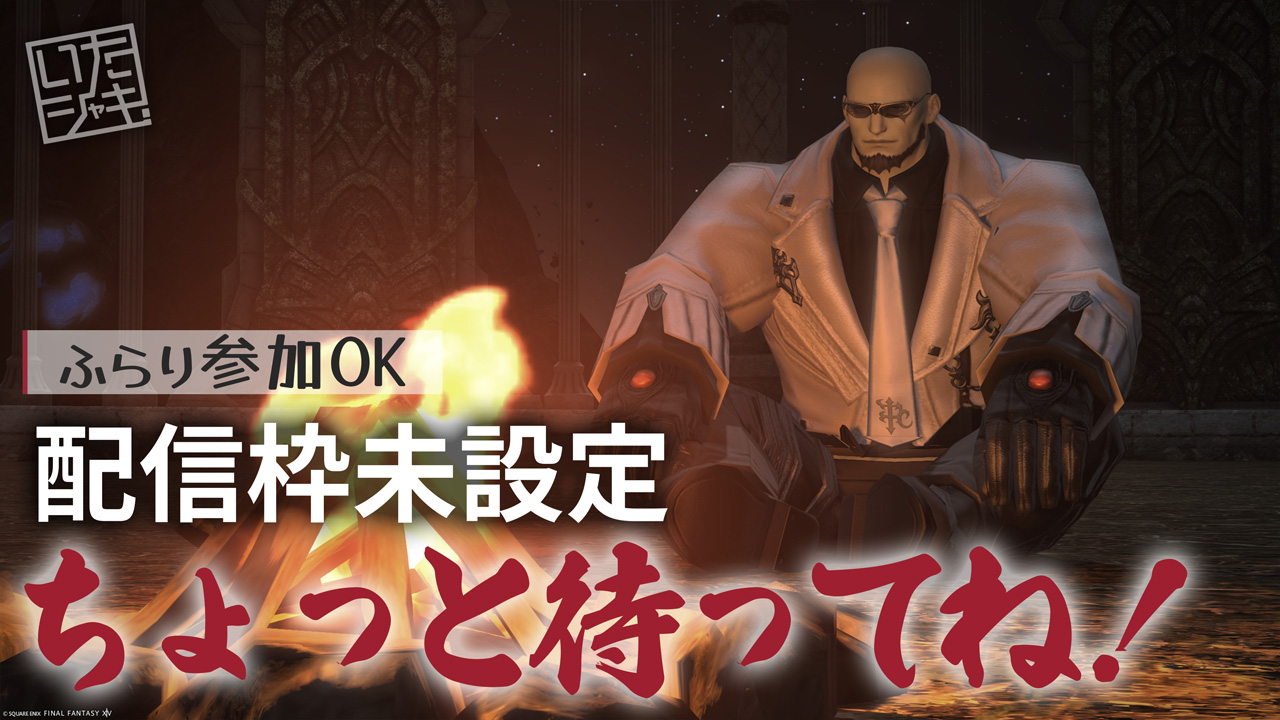
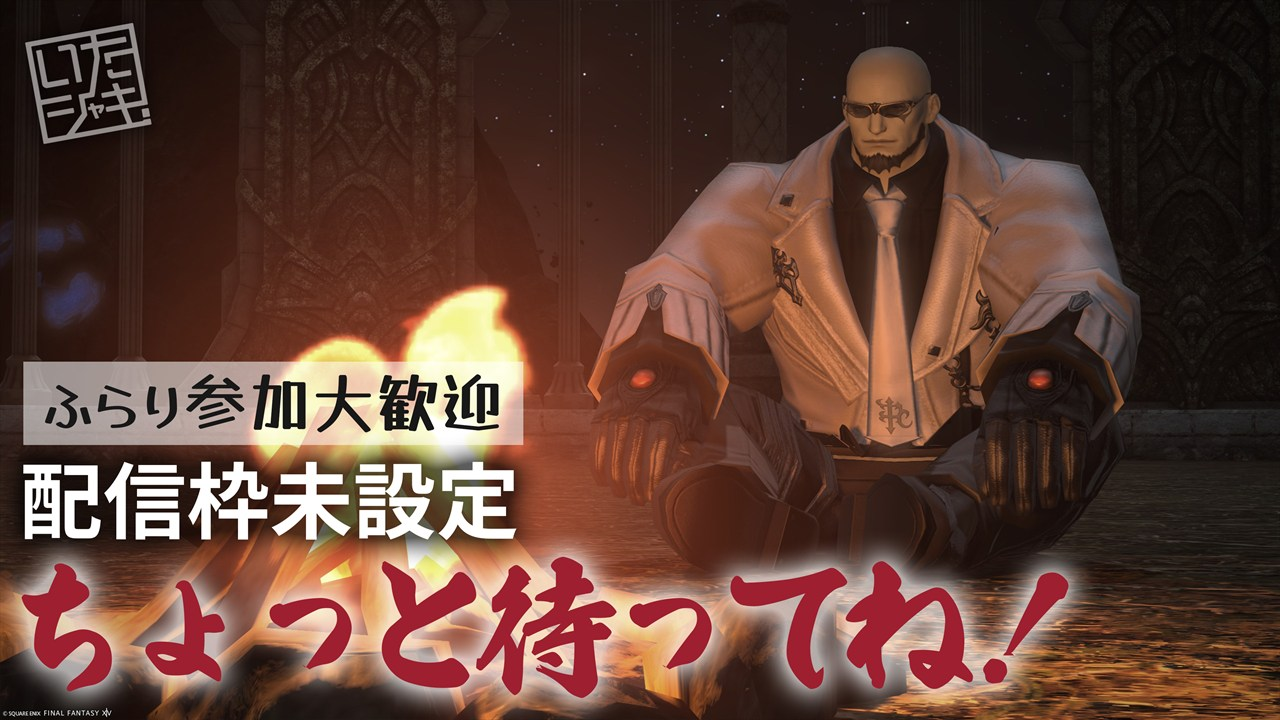
Replace default stream thumbnail

Changed region(s): [[0.0, 0.4583, 0.9688, 1.0]]

diff --git a/public/script.js b/public/script.js
@@ -5,7 +5,7 @@
   const INITIAL_FILTER = 'next7';
   const SEVEN_DAYS_MS = 7 * 24 * 60 * 60 * 1000;
   const TWELVE_HOURS_MS = 12 * 60 * 60 * 1000;
-  const DEFAULT_THUMBNAIL_URL = 'assets/images/default-stream-thumbnail.jpg';
+  const DEFAULT_THUMBNAIL_URL = 'assets/images/default-stream-thumbnail.jpg?v=2';
   const STREAM_BREAK_THUMBNAIL_URL = 'assets/images/stream-break-thumbnail.jpg?v=2';
   const YOUTUBE_HOSTS = new Set(['youtube.com', 'www.youtube.com', 'm.youtube.com', 'youtu.be', 'www.youtu.be']);
   const YOUTUBE_VIDEO_ID_PATTERN = /^[A-Za-z0-9_-]{11}$/;

diff --git a/public/index.html b/public/index.html
@@ -136,6 +136,6 @@
       </footer>
 
     </main>
-    <script src="script.js?v=17"></script>
+    <script src="script.js?v=18"></script>
   </body>
 </html>
